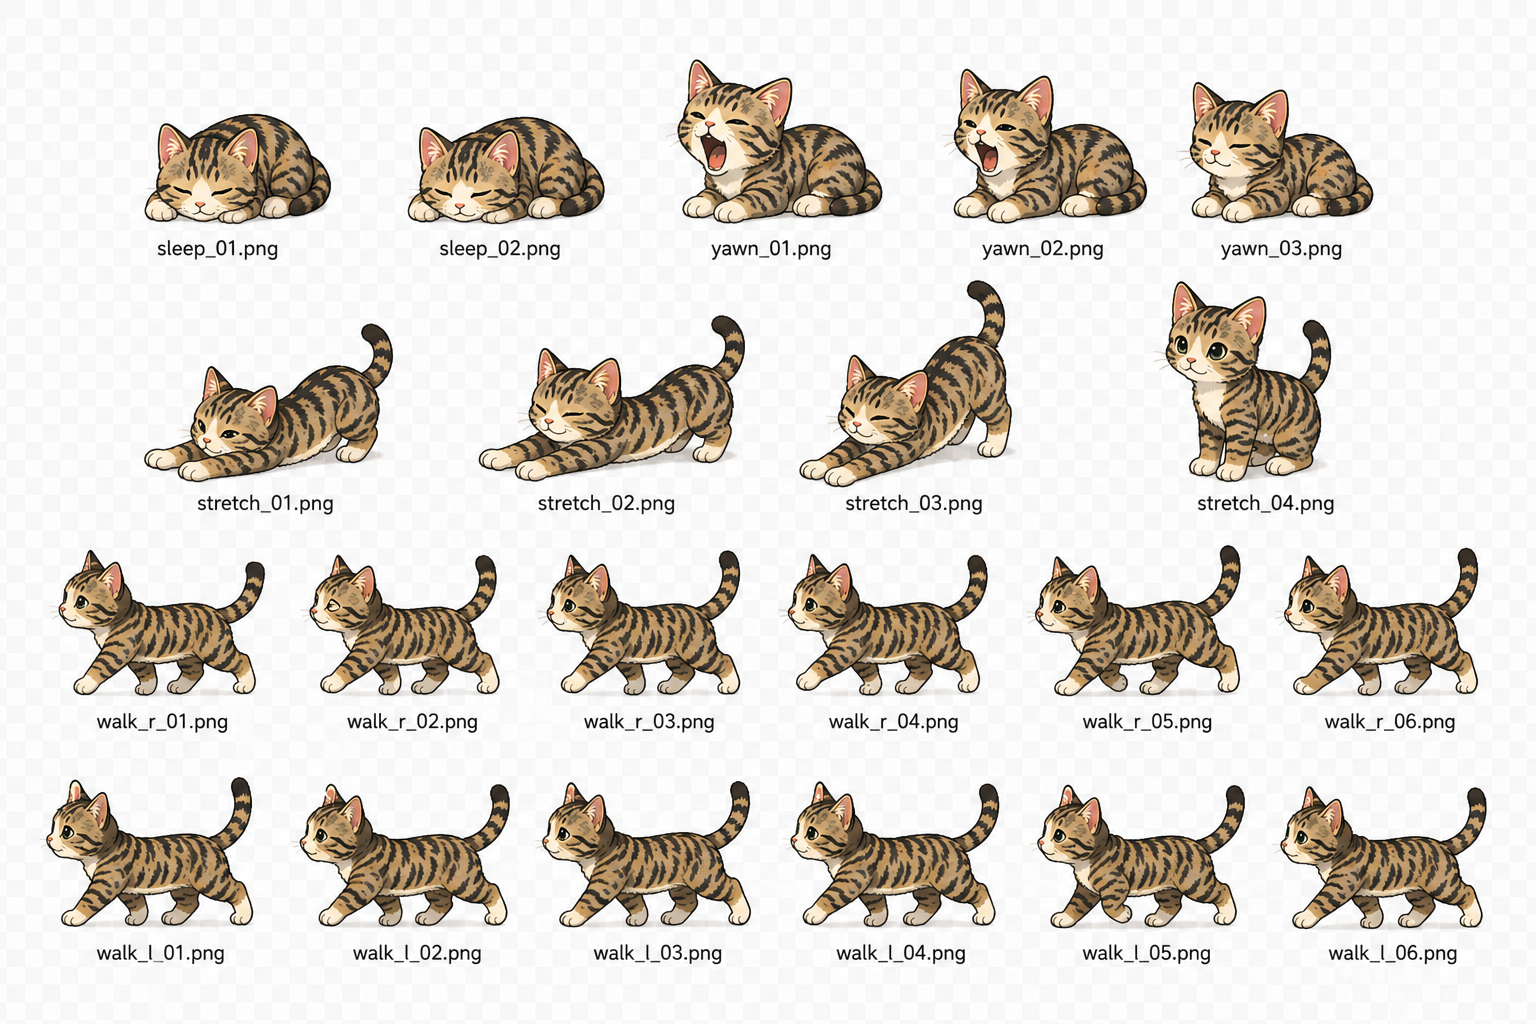
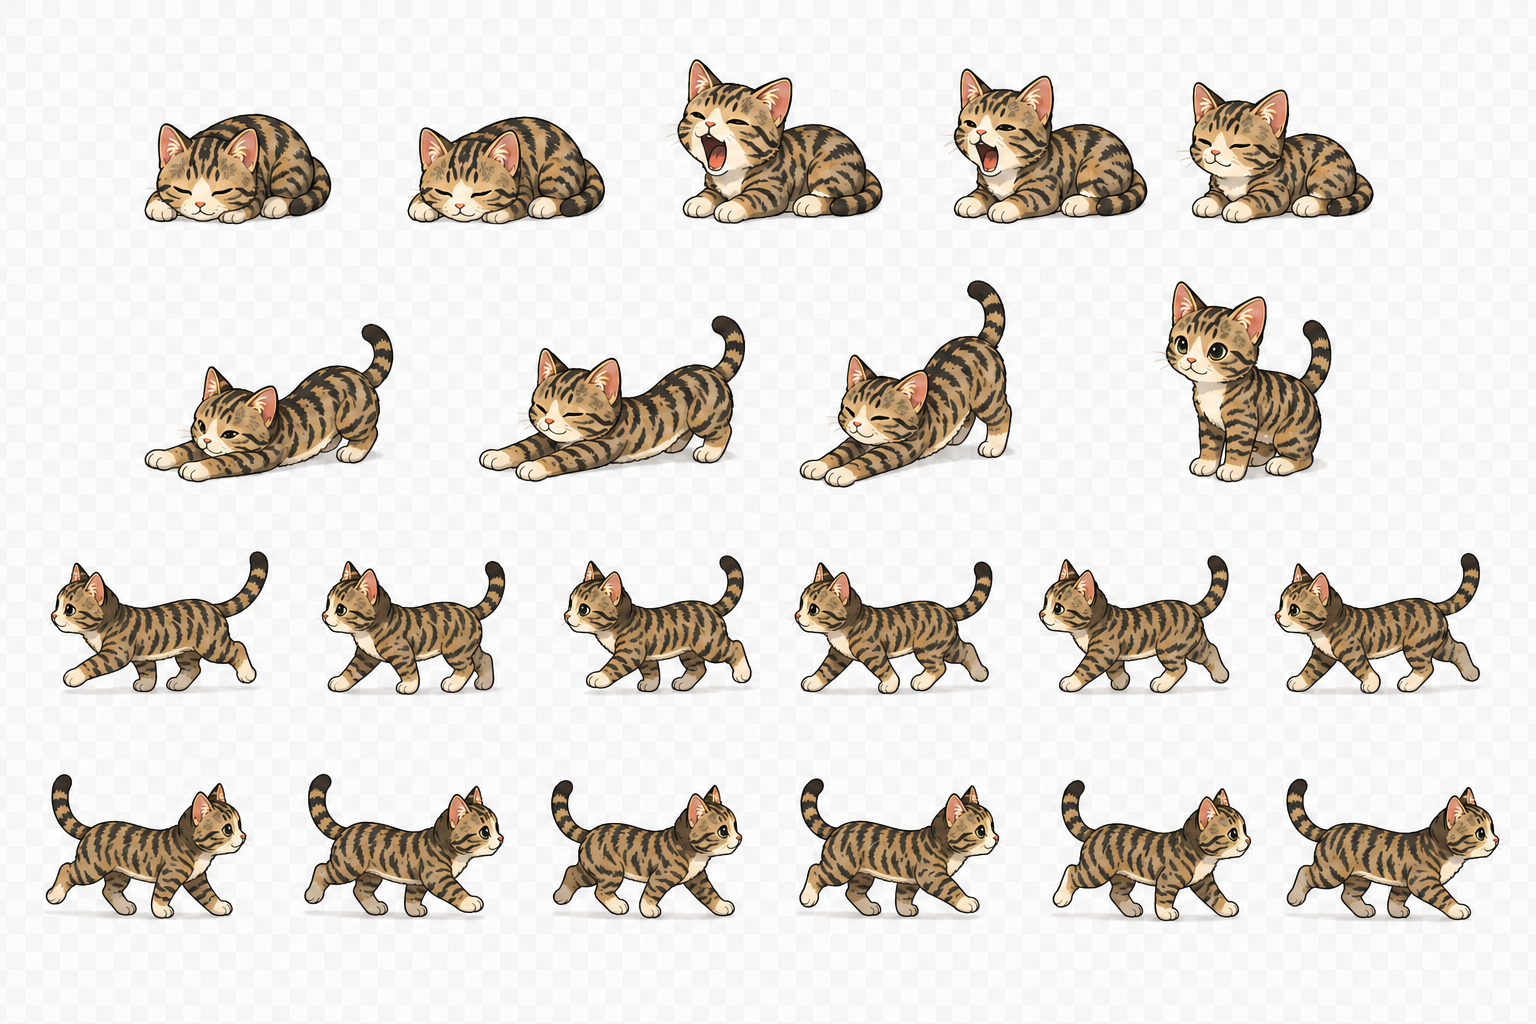
png 파일 수정

diff --git a/assets/characters/cat/split_cat_sprites.py b/assets/characters/cat/split_cat_sprites.py
@@ -38,12 +38,12 @@ NAMES = [
 ]
 
 FLIP_HORIZONTAL = {
-    "walk_r_01.png",
-    "walk_r_02.png",
-    "walk_r_03.png",
-    "walk_r_04.png",
-    "walk_r_05.png",
-    "walk_r_06.png",
+    "walk_l_01.png",
+    "walk_l_02.png",
+    "walk_l_03.png",
+    "walk_l_04.png",
+    "walk_l_05.png",
+    "walk_l_06.png",
 }
 
 WALK_NAMES = [name for name in NAMES if name.startswith("walk_")]
@@ -131,15 +131,17 @@ def pad_box(box, padding, image_size):
 
 
 def make_background_transparent(img: Image.Image) -> Image.Image:
-    """Remove the near-white background connected to the crop edges."""
+    """Remove the full checkerboard background without eating enclosed fur."""
     arr = np.array(img.convert("RGBA"))
     rgb = arr[:, :, :3].astype(np.int16)
     brightness = rgb.mean(axis=2)
     saturation = rgb.max(axis=2) - rgb.min(axis=2)
 
-    # Only near-white, nearly neutral pixels can be background. Flood-filling
-    # from the edges prevents enclosed light parts of the cat from disappearing.
-    candidate = (brightness >= 235) & (saturation <= 20)
+    # The source PNG is a checkerboard, not a true transparent PNG. Both the
+    # white and gray squares are bright and nearly neutral, so use a generous
+    # brightness range and flood-fill only from the crop boundary. This keeps
+    # cream fur and white paws enclosed by the outline intact.
+    candidate = (brightness >= 205) & (saturation <= 12)
     h, w = candidate.shape
     background = np.zeros_like(candidate, dtype=bool)
     q = deque()
@@ -164,6 +166,18 @@ def make_background_transparent(img: Image.Image) -> Image.Image:
                     q.append((nx, ny))
 
     arr[background, 3] = 0
+
+    # Remove the pale fringe left by antialiasing against the checkerboard.
+    # Only pixels adjacent to the detected background are touched; interior
+    # light fur remains unchanged.
+    adjacent = np.zeros_like(background)
+    adjacent[1:, :] |= background[:-1, :]
+    adjacent[:-1, :] |= background[1:, :]
+    adjacent[:, 1:] |= background[:, :-1]
+    adjacent[:, :-1] |= background[:, 1:]
+    fringe = adjacent & ~background & (brightness >= 185) & (saturation <= 28)
+    arr[fringe, 3] = np.minimum(arr[fringe, 3], 90)
+
     return Image.fromarray(arr)
 
 
